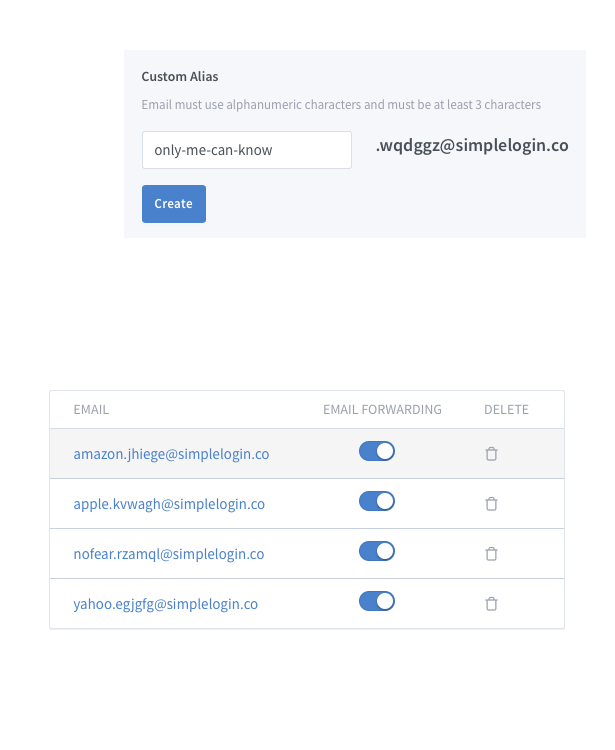
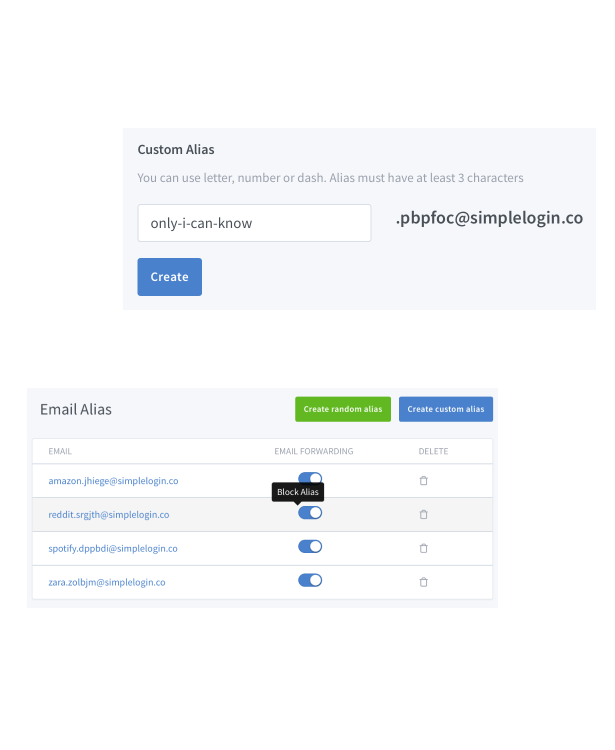
Change wording, update images on home page

diff --git a/layouts/index.html b/layouts/index.html
@@ -35,12 +35,11 @@
 
 
   <!-- Mockup Block Section -->
-  <div class="container space-bottom-3">
+  <div class="container space-bottom-1">
     <!-- Title -->
-    <div class="w-md-80 w-lg-50 text-center mx-md-auto mb-9">
+    <div class="w-md-80 w-lg-50 text-center mx-md-auto mb-3">
       <span class="btn btn-xs btn-soft-primary btn-pill mb-2">#privacy</span>
       <h2 class="text-primary">Your Privacy Comes <span class="font-weight-semi-bold">First</span></h2>
-      <p>Your digital identity belongs to you.</p>
     </div>
     <!-- End Title -->
 
@@ -53,9 +52,9 @@
               <span class="btn-icon__inner">A.</span>
             </span>
             <div class="media-body">
-              <h3 class="h5 text-primary">Email Alias</h3>
-              <p>Create quickly a temporary, secure, anonymous email alias.</p>
-              <p>All emails sent to an alias will be  forwarded to your personal email.</p>
+              <h3 class="h5 text-primary">Hide your personal email address</h3>
+              <p>Create quickly a random, secure email alias on any website.</p>
+              <p>All emails going to an alias will be  forwarded to your personal inbox.</p>
             </div>
           </div>
           <!-- End Info -->
@@ -66,14 +65,11 @@
               <span class="btn-icon__inner">B.</span>
             </span>
             <div class="media-body">
-              <h3 class="h5 text-primary">You Are In Control</h3>
-              <p>You control who can send you emails. </p>
-              <p>No more random phishing emails, no more impossible-to-unsubscribe newsletters.</p>
+              <h3 class="h5 text-primary">You control who can send you emails</h3>
+              <p>Simply block an alias if it's too spammy.</p>
             </div>
           </div>
           <!-- End Info -->
-
-          <a class="btn btn-primary btn-wide btn-pill transition-3d-hover" href="https://app.simplelogin.io/auth/register">Get Started <span class="fas fa-angle-right ml-2"></span></a>
         </div>
       </div>
 
@@ -93,7 +89,7 @@
   <!-- End Mockup Block Section -->
 
   <!-- Mockup Block Section -->
-  <div class="container">
+  <div class="container space-bottom-1">
     <div class="row justify-content-lg-between align-items-center">
       <div class="col-md-6 col-lg-5 order-md-2 mb-7 mb-md-0">
         <div class="pl-md-4">
@@ -103,27 +99,12 @@
               <span class="btn-icon__inner">C.</span>
             </span>
             <div class="media-body">
-              <h3 class="h5 text-success">NO MORE SIGN-UP FORM</h3>
-              <p>No more <em>password must be at least 8 characters long</em>.</p>
-              <p>No more disposable temporary email.</p>
-              <p>Logging in should be <span class="font-weight-semi-bold">quick</span>.</p>
+              <h3 class="h5 text-success">Reply with an alias</h3>
+              <p>Never show your personal email even when you reply.</p>
+              <p>Simply hit "Reply" button in your favorite email client and the reply will go through our server to look like it comes from the alias.</p>
             </div>
           </div>
           <!-- End Info -->
-
-          <!-- Info -->
-          <div class="media mb-7">
-            <span class="btn btn-sm btn-icon btn-soft-success rounded-circle mr-3">
-              <span class="btn-icon__inner">D.</span>
-            </span>
-            <div class="media-body">
-              <h3 class="h5 text-success">You choose what information you want to share</h3>
-              <p>You can decide and custom the information sent to a website.</p>
-            </div>
-          </div>
-          <!-- End Info -->
-
-          <a class="btn btn-success btn-wide btn-pill transition-3d-hover" href="https://app.simplelogin.io/auth/register">Try SimpleLogin <span class="fas fa-angle-right ml-2"></span></a>
         </div>
       </div>
 
@@ -135,6 +116,54 @@
                   {"targetId": "#SVGellipseMockupReverseImg1", "newPath": "/home3.png"}
                 ]'
                 data-parent="#SVGellipseMockupReverse">
+        </figure>
+        <!-- End SVG Mockup -->
+      </div>
+    </div>
+  </div>
+  <!-- End Mockup Block Section -->
+
+  <!-- Mockup Block Section -->
+  <div class="container space-bottom-1">
+    <div class="row justify-content-lg-between align-items-center">
+      <div class="col-md-6 col-lg-5 mb-7 mb-md-0">
+        <div class="pr-md-4">
+          <!-- Info -->
+          <div class="media mb-7">
+            <span class="btn btn-sm btn-icon btn-soft-primary rounded-circle mr-3">
+              <span class="btn-icon__inner">D.</span>
+            </span>
+            <div class="media-body">
+              <h3 class="h5 text-primary">No more sign-up form</h3>
+              <p>You can quickly sign in on any website that has "Sign in with SimpleLogin" button.</p>
+              <p>No more "password must be at least 8 characters long", no more disposable temporary email, logging in should be quick.</p>
+            </div>
+          </div>
+          <!-- End Info -->
+
+          <!-- Info -->
+          <div class="media mb-7">
+            <span class="btn btn-sm btn-icon btn-soft-primary rounded-circle mr-3">
+              <span class="btn-icon__inner">E.</span>
+            </span>
+            <div class="media-body">
+              <h3 class="h5 text-primary">You choose what information you want to share</h3>
+              <p>You can decide and custom what information you want to share to a website. </p>
+              <p>By default a new alias is created for each website.</p>
+            </div>
+          </div>
+          <!-- End Info -->
+        </div>
+      </div>
+
+      <div id="SVGellipseMockup2" class="col-md-6 svg-preloader">
+        <!-- SVG Mockup -->
+        <figure class="ie-ellipse-mockup">
+          <img class="js-svg-injector" src="/assets/svg/illustrations/ellipse-mockup.svg" alt="Image Description"
+                data-img-paths='[
+                  {"targetId": "#SVGellipseMockupImg1", "newPath": "/home4.png"}
+                ]'
+                data-parent="#SVGellipseMockup2">
         </figure>
         <!-- End SVG Mockup -->
       </div>
